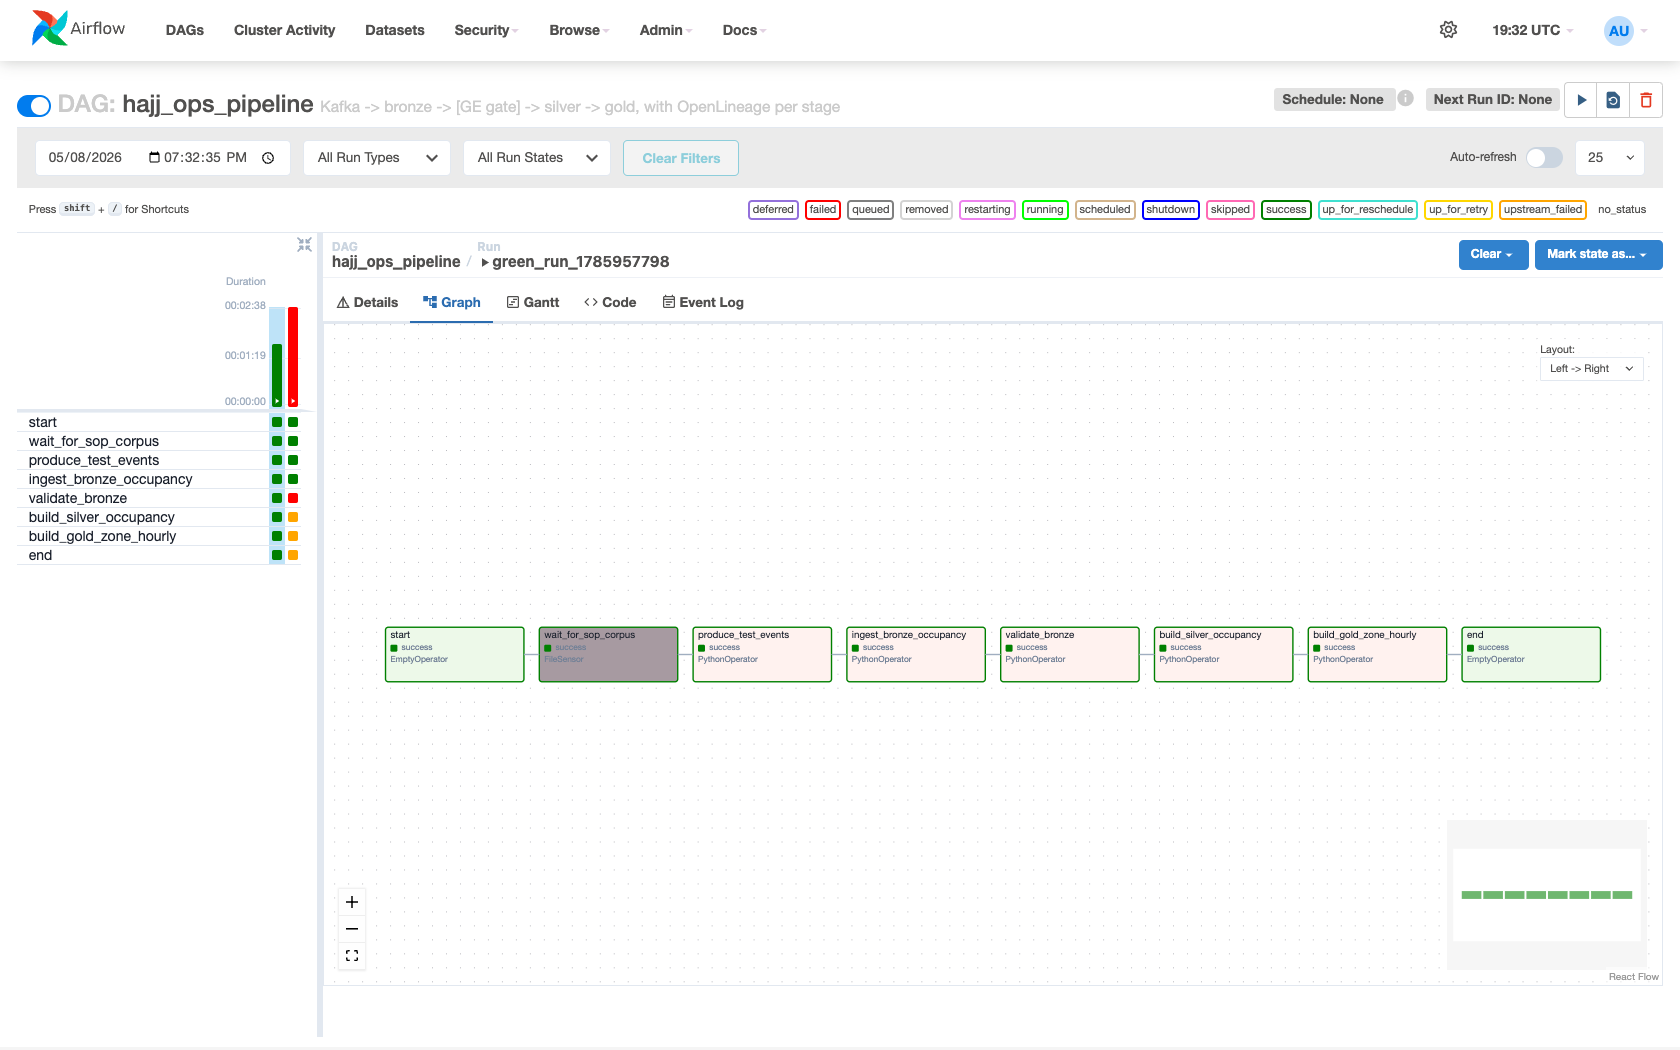
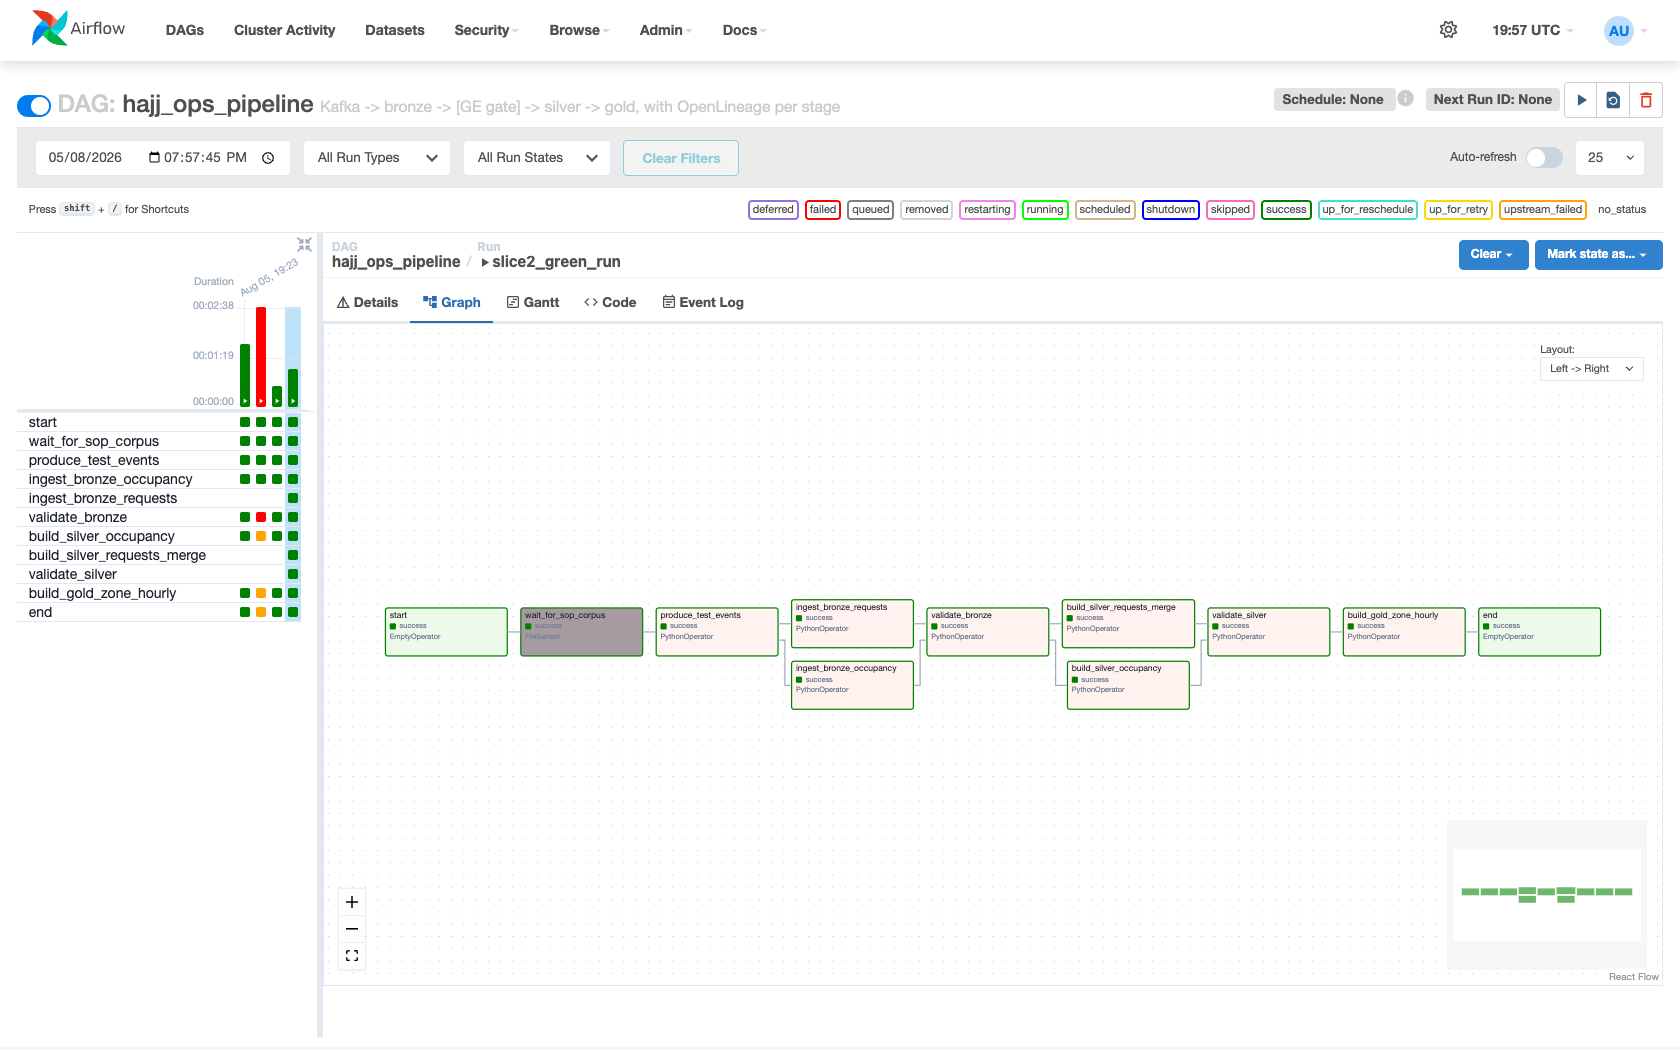
docs(evidence): MERGE evidence, schema enforcement log, slice-2 audit and screenshot

diff --git a/docs/evidence/failures/merge_evidence.md b/docs/evidence/failures/merge_evidence.md
@@ -1,0 +1,40 @@
+# Deliverable 2 — MERGE evidence (silver_service_requests)
+
+Business key: `request_id`. Bronze holds every lifecycle transition (~4-6 per request);
+the staging set is deduplicated to the latest event per key before the MERGE, otherwise
+Delta raises "Multiple source rows matched the same target row".
+
+## Wave 1 — partial lifecycles (6,000 messages)
+```
+bronze_rows: 5585  ->  staged_rows: 2490  ->  silver rows: 2490
+merge_metrics: {"num_target_rows_inserted": 2490, "num_target_rows_updated": 0, "first_load": true}
+
+status distribution AFTER wave 1:
+  ACKNOWLEDGED  1375
+  DISPATCHED     867
+  CANCELLED      154
+  REPORTED        94
+```
+
+## Wave 2 — same seed, full lifecycles (11,868 messages)
+
+Re-running the producer with the same `--seed` re-emits the SAME `request_id`s with further
+lifecycle progress. That is what makes this an upsert rather than an append.
+
+```
+status distribution AFTER wave 2 (MERGE applied):
+  RESOLVED        1945
+  CANCELLED        376
+  ON_SITE          155
+  DISPATCHED        12
+  ACKNOWLEDGED       9
+  REPORTED           3
+
+rows: 2500   distinct request_id: 2500
+-> one row per request holding its CURRENT state; uniqueness proves upsert, not append.
+
+PII governance:
+  raw pilgrim_ref column present?    False
+  raw reporter_phone column present? False
+  hashed columns: ['pilgrim_ref_hash', 'reporter_phone_hash']
+```
